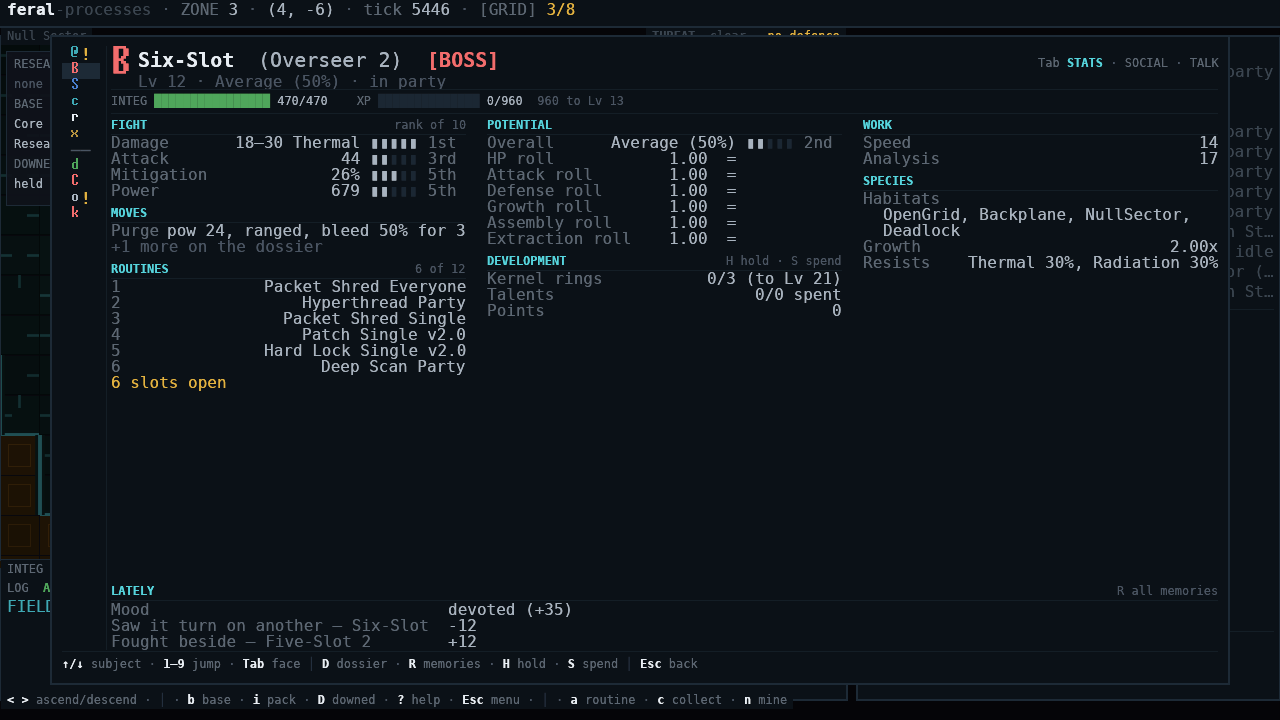
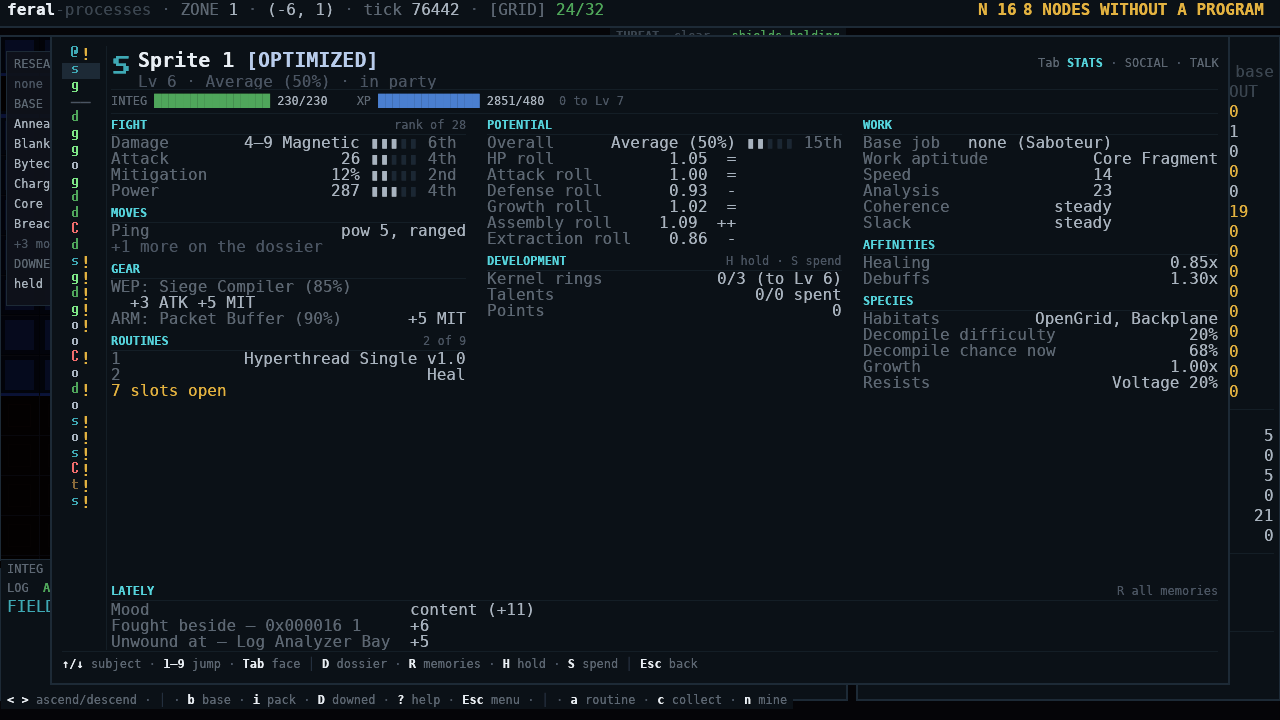
Retake eleven screenshots from the fred template
Base, staffing, research chart, manifest, social, memories, report overview,
roster, downed, inventory and list filter now come from `--template fred`.
The report overview was a duplicate of base.png (`B` no longer opens it; `b
Enter` does). Captions and alt text follow the new images.

Claude-Session: https://claude.ai/code/session_01Q19tGwigpM1gWFDEAfKCoD

diff --git a/index.html b/index.html
@@ -521,7 +521,7 @@ footer{border-top:1px solid var(--line-soft);padding:64px 0 48px;background:#090
           <figcaption>The SOCIAL tab of a manifest.</figcaption>
         </figure>
         <figure class="shot">
-          <img src="img/memories.png" alt="A program's memories: fighting beside crewmates, and one bad memory of another program turning on them, adding up to a good mood" width="1280" height="720" loading="lazy">
+          <img src="img/memories.png" alt="A program's memories: fighting beside a crewmate and being unwound at a machine, adding up to a good mood" width="1280" height="720" loading="lazy">
           <figcaption>A program's memories and current mood.</figcaption>
         </figure>
       </div>
@@ -552,8 +552,8 @@ footer{border-top:1px solid var(--line-soft);padding:64px 0 48px;background:#090
 
     <div class="split" style="align-items:start">
       <figure class="shot">
-        <img src="img/base.png" alt="A base on the surface map, with production machines placed next to each other and the base panel listing each machine and who runs it" width="1280" height="720" loading="lazy">
-        <figcaption>A working base, with Mining Nodes, a Refinery and a Compiler.</figcaption>
+        <img src="img/base.png" alt="A base inside its walls, with extractors and factories placed in rows and the base panel listing each machine, the program that runs it and what it has made" width="1280" height="720" loading="lazy">
+        <figcaption>A working base, with Extractors, Factories, a Research Station and a Holding Cell.</figcaption>
       </figure>
       <figure class="shot">
         <img src="img/research.png" alt="The research chart: boxes for each research project with lines between them, and the selected project's cost and unlock shown beside it" width="1280" height="720" loading="lazy">
@@ -563,7 +563,7 @@ footer{border-top:1px solid var(--line-soft);padding:64px 0 48px;background:#090
 
     <figure class="shot" style="margin-top:36px">
       <img src="img/report-overview.png" alt="The base report's Overview page: a list of pages down the left, and one line for each page saying whether it is fine or what the base is short of" width="1280" height="720" loading="lazy">
-      <figcaption>The base report (B) has a page for staff, production, stock, orders and alerts. The Overview says which ones need attention.</figcaption>
+      <figcaption>The base report (<code>b</code>) has a page for staff, production, stock, orders and alerts. The Overview says which ones need attention.</figcaption>
     </figure>
 
     <div class="grid" style="margin-top:36px">
@@ -746,7 +746,7 @@ footer{border-top:1px solid var(--line-soft);padding:64px 0 48px;background:#090
         <figcaption>The roster.</figcaption>
       </figure>
       <figure class="shot">
-        <img src="img/downed.png" alt="The Downed programs page of the inventory: three beaten programs waiting to be broken down, with their condition and rarity, and the inventory's pages listed down the left" width="1280" height="720" loading="lazy">
+        <img src="img/downed.png" alt="The Downed programs page of the inventory: ten beaten programs waiting to be broken down, with their level and condition, and the inventory's pages listed down the left" width="1280" height="720" loading="lazy">
         <figcaption>Beaten programs waiting to be broken down.</figcaption>
       </figure>
       <figure class="shot full">
@@ -754,8 +754,8 @@ footer{border-top:1px solid var(--line-soft);padding:64px 0 48px;background:#090
         <figcaption>The inventory. Gear you're wearing at the top, everything you carry below it.</figcaption>
       </figure>
       <figure class="shot full">
-        <img src="img/list-filter.png" alt="The inventory's Items page filtered by the typed text 'plat': a 'filter: plat' line under the Inventory heading and only the three armour items whose names contain it" width="1280" height="720" loading="lazy">
-        <figcaption>Type on an item list to narrow it. Here "plat" leaves only the plating.</figcaption>
+        <img src="img/list-filter.png" alt="The inventory's Items page filtered by the typed text 'shiv': a 'filter: shiv' line under the Inventory heading and only the Shiv Routine weapons" width="1280" height="720" loading="lazy">
+        <figcaption>Type on an item list to narrow it. Here "shiv" leaves only the Shiv Routines.</figcaption>
       </figure>
     </div>
   </div>

diff --git a/README.md b/README.md
@@ -24,17 +24,17 @@ cargo run -- --template <name> --keys "<keys>" --screenshot out.png
 | image | how it was taken |
 |---|---|
 | `hero.png` | `--template siege` |
-| `base.png` | `--template chains` |
-| `staff.png` | `--template chains --keys "b Down Down Down Down Down Down Down Down Down Enter"` (base report, Staffing page) |
-| `research.png` | `--template chains --keys "b Down Down Enter"` (base report, Research page) |
-| `social.png` | `--template bonds --keys "i Down Down Down Down Enter M Tab"` (Companions page, manifest Social face) |
-| `manifest.png` | `--template bonds --keys "i Down Down Down Down Enter M"` (Companions page, manifest) |
-| `report-overview.png` | `--template chains --keys "B"` |
-| `memories.png` | `--template bonds --keys "i Down Down Down Down Enter R"` (Companions page, memories) |
-| `roster.png` | `--template bonds --keys "i Down Down Down Down Enter"` (inventory, Companions page) |
-| `downed.png` | `--template bonds --keys "D"` (inventory, Downed programs page) |
-| `inventory.png` | `--template bonds --keys "i Right"` (inventory, Items page) |
-| `list-filter.png` | `--template bonds --keys "i Right p l a t Down"` (Items page filtered by "plat") |
+| `base.png` | `--template fred` |
+| `staff.png` | `--template fred --keys "b Down Down Down Down Down Down Down Down Down Enter"` (base report, Staffing page) |
+| `research.png` | `--template fred --keys "b Down Down Enter Enter"` (base report, Research page, the chart) |
+| `social.png` | `--template fred --keys "i Down Down Down Down Enter M Tab"` (Companions page, manifest Social face) |
+| `manifest.png` | `--template fred --keys "i Down Down Down Down Enter M"` (Companions page, manifest) |
+| `report-overview.png` | `--template fred --keys "b Enter"` |
+| `memories.png` | `--template fred --keys "i Down Down Down Down Enter R"` (Companions page, memories) |
+| `roster.png` | `--template fred --keys "i Down Down Down Down Enter"` (inventory, Companions page) |
+| `downed.png` | `--template fred --keys "D"` (inventory, Downed programs page) |
+| `inventory.png` | `--template fred --keys "i Right"` (inventory, Items page) |
+| `list-filter.png` | `--template fred --keys "i Right s h i v Down"` (Items page filtered by "shiv") |
 | `towns.png` | `--template settlements` |
 | `world-map.png` | `--template world-map --keys "g"` |
 | `stack.png` | `--template stack` |
